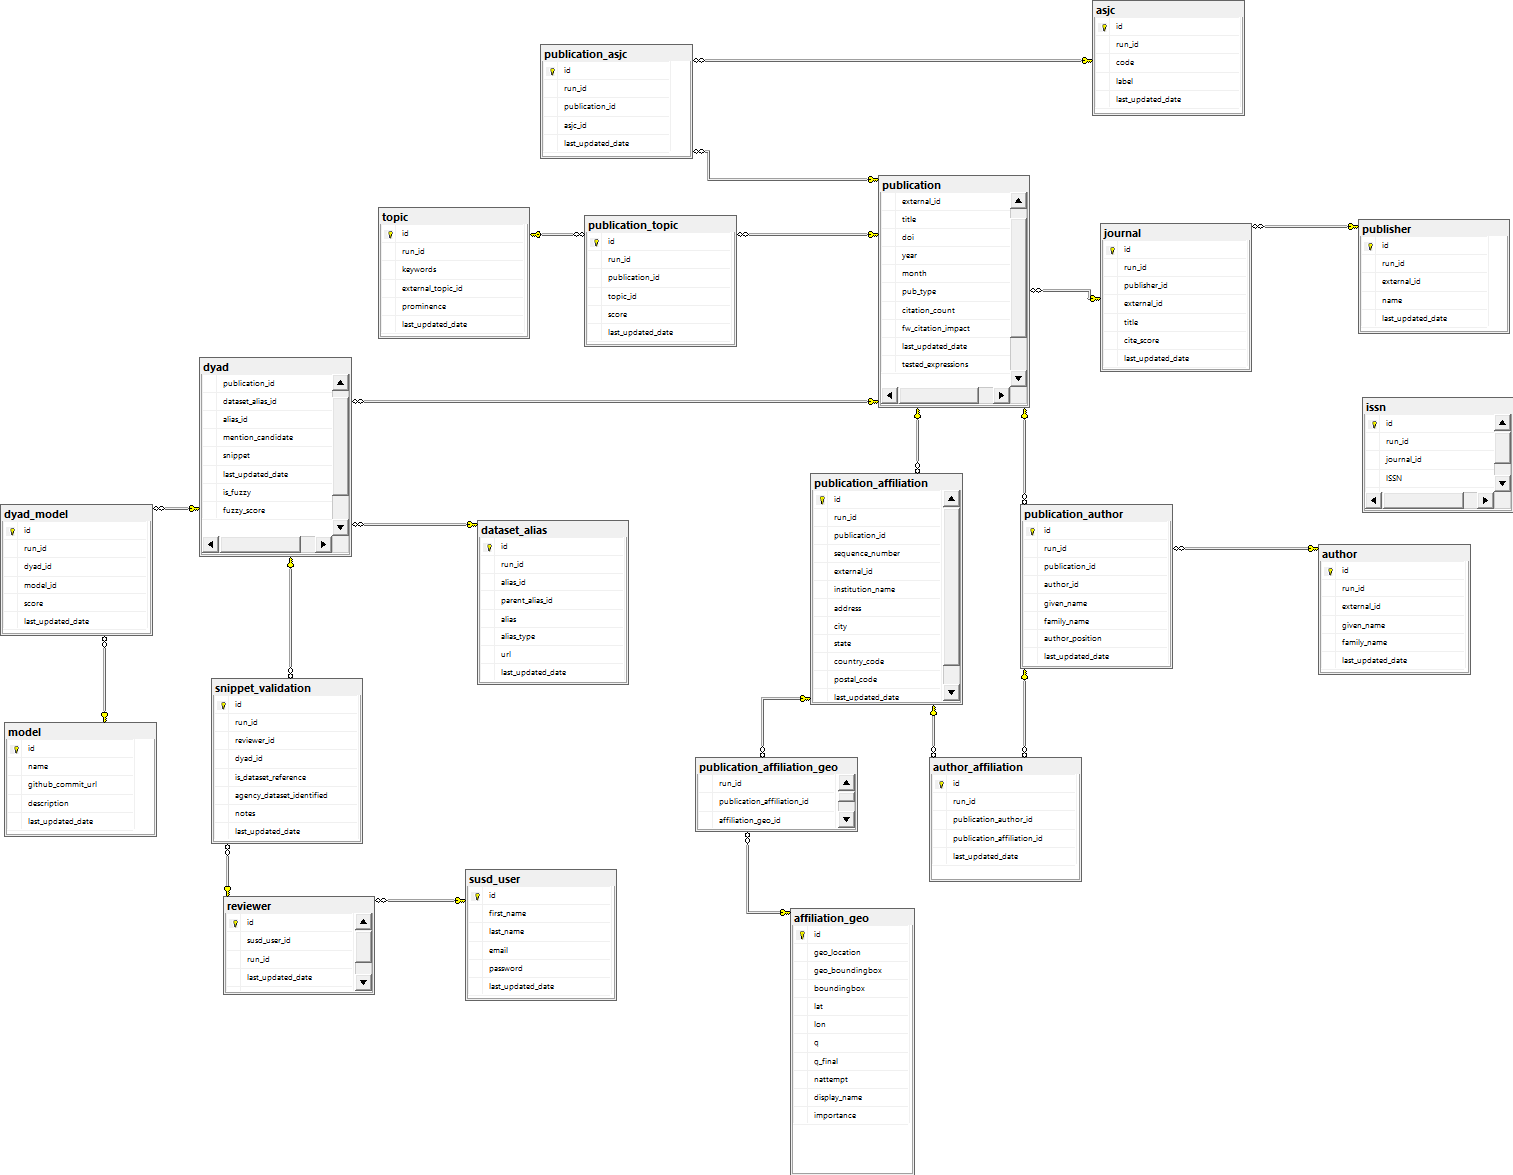
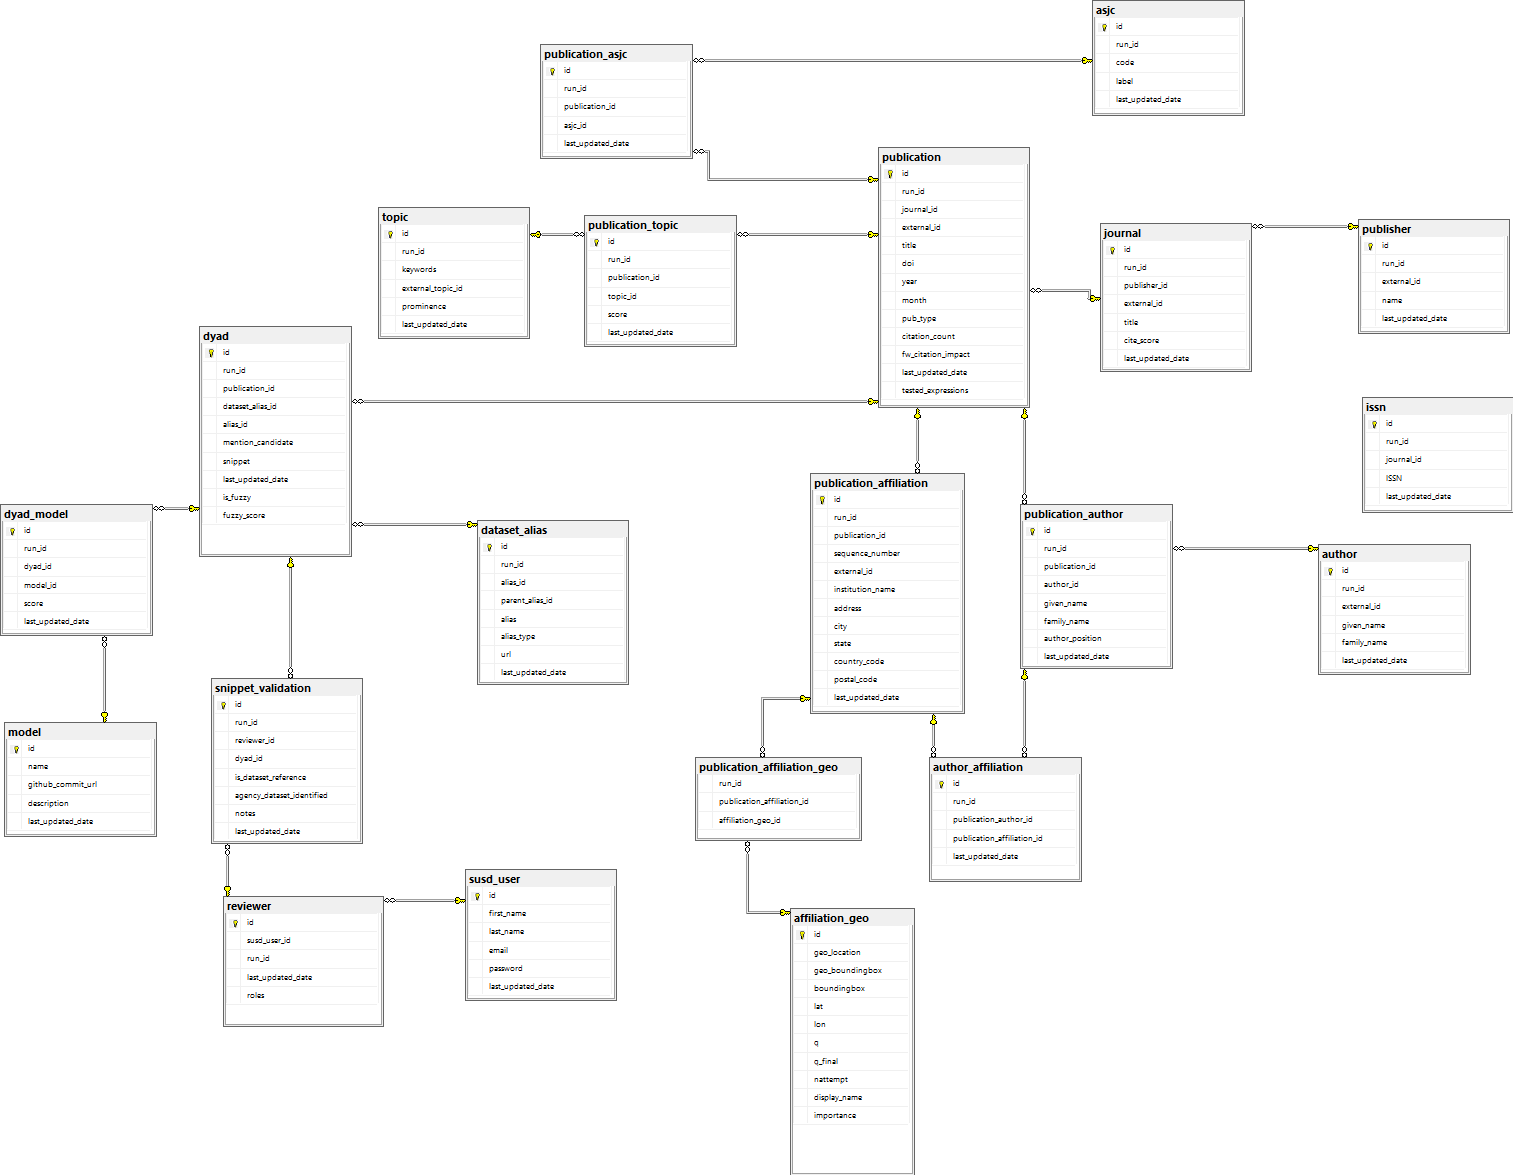
updates to data model documentation

diff --git a/DataModel/DemocratizingData-metadata-schema.md b/DataModel/DemocratizingData-metadata-schema.md
@@ -1,12 +1,24 @@
+# Data model for Democratizing Data database
+This document describes the full database schema for the metadata about publications and datasets collected by the Democratizing Data project. The core database (currently ShowUStheData_v3 at SciServer) of the project contains all the tables documented here. Some agency-specific databases derived from it will miss a few of these tables, but are otherwise the same.
+
+
 ## agency_run
-The table with runs for the different agencies
+The table representing *runs* for the different agencies. In a "run" the corpus of publications at Elsevier is searched for the occurrence of references to data sets from an input list provided by the agency.
+
+This table is at the moment only an anchor representing a complete submission from Elsevier. Most other tables in this database have a run_id column referring to this table, indicating for which *run* they represent metadata.
+There is no more metadata then the agency's name and a version label produced by Elsevier.
+
+Elsevier may produce multiple submissions for the same agency and collection of input data sets, with different run parameterts. For example adding filtering terms, varying matching acceptance criteria etc.
+There is no explicit relation between such submissions here apart from a constancy of the agency name
+But also completely different runs with a different collection of data sets to be searched will eventually be contained in this table. These different *types of versions* will be further categorized in future versions of the model where we will add more runtime metadata about the runs.
+
 
 
 |column name|description|data type|length|is nullable|
 |:---|:---|:---|:---|:---|
 |id|unique identifier to the agency_run table|bigint|0|NO|
 |agency|name of the agency for which the run was performed|varchar|32|NO|
-|version|version of the run for the agency. allows multiple versions on the same data sets, or possibly new runs for the same agency but with different input data sets.|varchar|32|NO|
+|version|version of the run for the agency. allows multiple versions on the same data sets, or possibly new runs for the same agency, but with different input data sets.|varchar|32|NO|
 |run_date|approximate date the run was performed.|date|0|YES|
 |last_updated_date|last time the row was updated. generally the time of creation of the row.|datetime|0|NO|
 
@@ -158,7 +170,7 @@ publications discovered in a run
 |citation_count|The number of times this publication is cited in Scopus|int|0|YES|
 |fw_citation_impact|The Field Weighted Citation Impact (FWCI) for the publication. This is a measure for how impactful or important a publication is as measured through normalised citations. The number of times cited divided by the expected number of citations of articles in the same year, subject and publication type. World average across papers is 1.0 for this metric. This metric also changes over time. |float|0|YES|
 |last_updated_date|last time the row was updated. generally the time of creation of the row.|datetime|0|NO|
-
+|tested_expressions|a JSON-formatted string indicating whether certain expressions occurred in the publication.|varchar|MAX|YES|
 
 ## publication_affiliation
 The table with affiliations on a publication.
@@ -176,6 +188,15 @@ The table with affiliations on a publication.
 |city|the city for the addres or institute in this affiliation|nvarchar|128|YES|
 |state|if appropriate, the state for the addres or institute in this affiliation|nvarchar|128|YES|
 |postal_code|if appropriate, the postal code for this affiliation|nvarchar|64|YES|
+
+## publication_affiliation_geo
+The table with affiliations on a publication.
+
+
+|column name|description|data type|length|is nullable|
+|:---|:---|:---|:---|:---|
+|run_id|identifies the agency run for which this entry was determined, foreign key to agency_run.id|bigint|0|NO|
+|publication_affiliation_id|Identifies publication_affiliation for Foreign key to the publication_affiliationid assigned by Elsevier to this affiliation|varchar|128|YES|
 
 
 ## publication_asjc
@@ -242,7 +263,7 @@ Reviewers are susd_user-s assigned to validate dyads in the publication_dataset_
 |susd_user_id|foreign key to the susd_user table's id columns, identifying the user corresponding to this reviewer|bigint|0|NO|
 |run_id|identifies the agency run for which this entry was determined, foreign key to agency_run.id|bigint|0|NO|
 |last_updated_date|last time the row was updated. generally the time of creation of the row.|datetime|0|NO|
-
+|roles|String formatted as a JSON array with one or more roles that the reviewer has in the validation process. These are <ul><li>REVIEWER: dyads will be assighned to the user to validate</li><li>ADMIN: user can configure validation process for the run, can assigne reviewers and can monitor the progress of the validation process.</li></ul>|varchar|MAX|YES|
 
 ## snippet_validation
 table storing the validation results for dyads provided by reviewers
